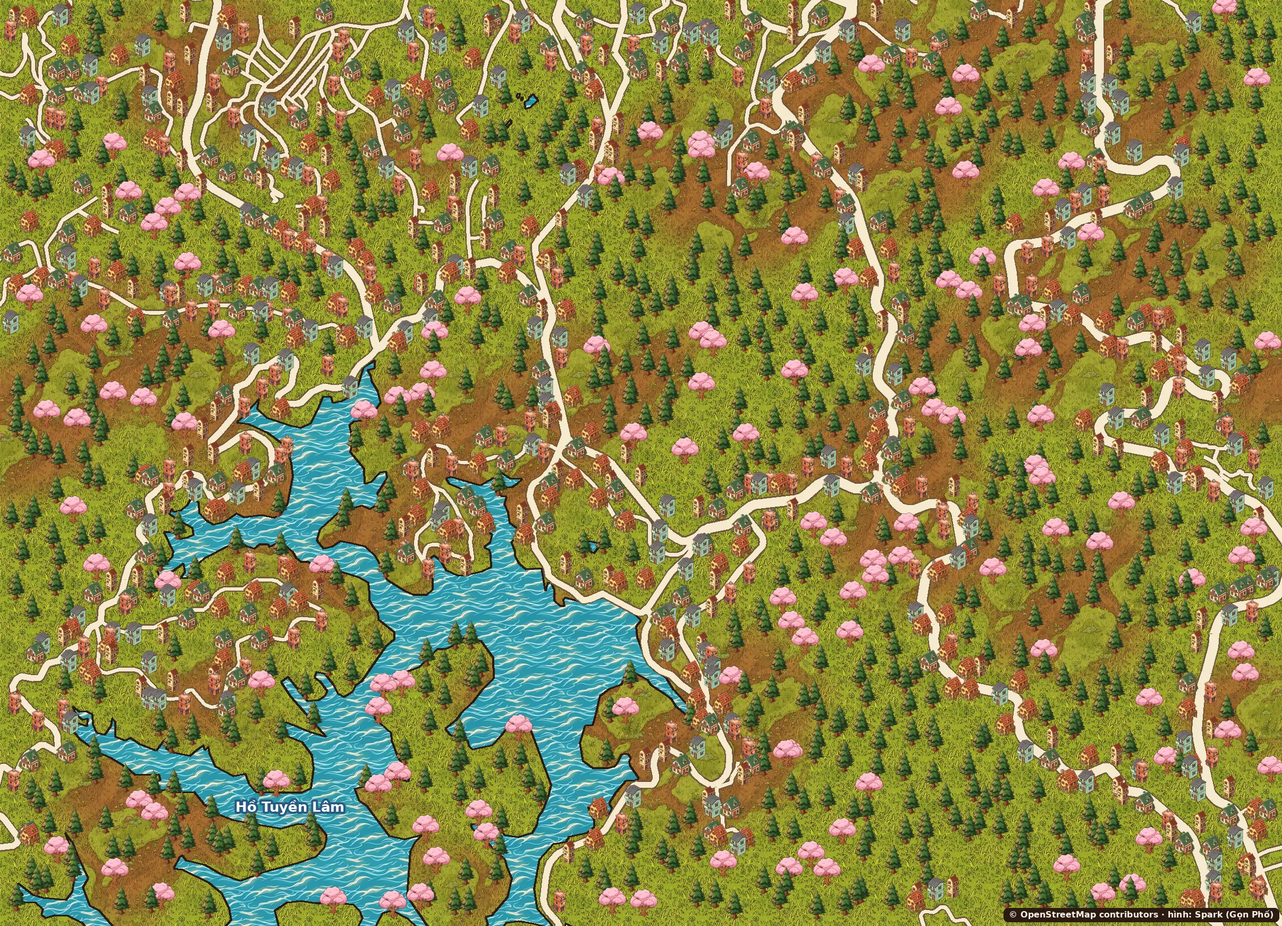
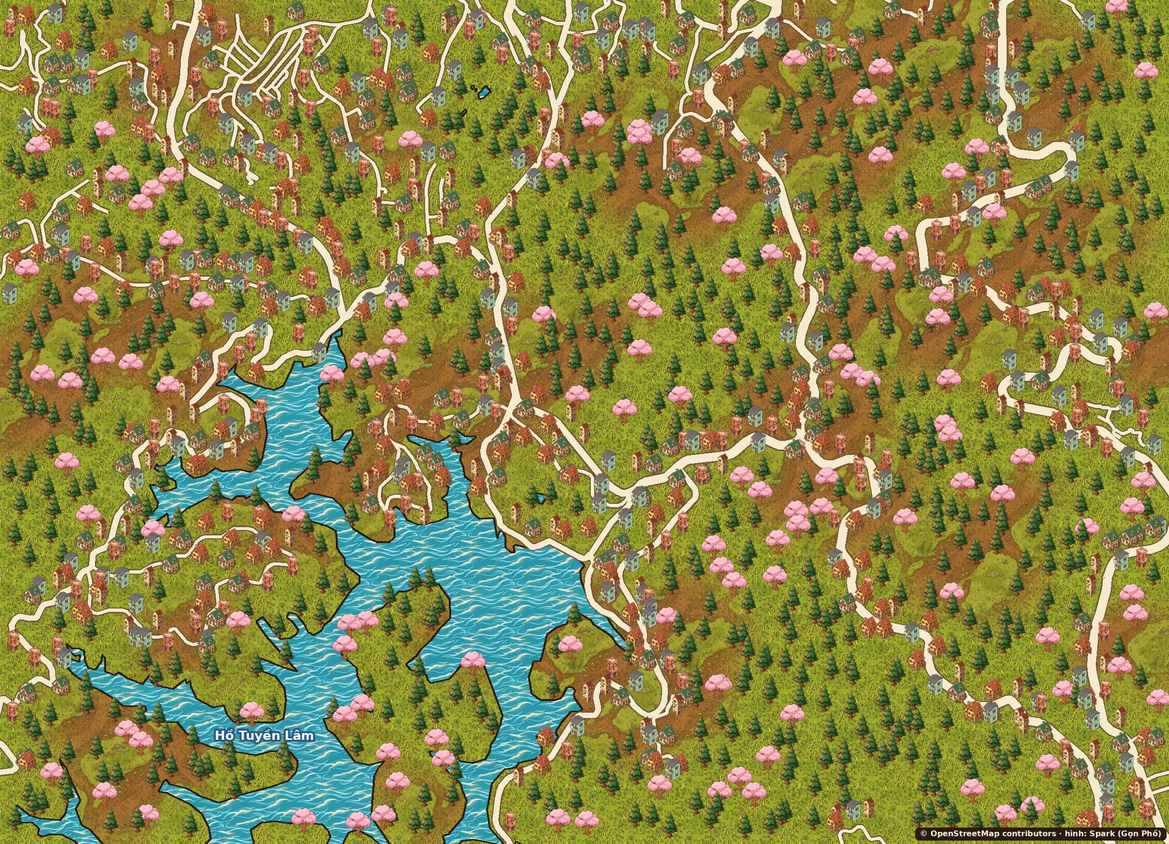
Bước 5: dòng © OpenStreetMap luôn hiện trên bản đồ, thu nhỏ ảnh bản đồ vùng ven (Lang Biang 3,7 MB → 1,1 MB), agent không lấy dữ liệu Google Maps
Claude-Session: https://claude.ai/code/session_01X21C3vW6w9QSrPJtoigw6e

Changed region(s): [[0.1545, 0.9874, 0.1855, 1.0]]

diff --git a/style.css b/style.css
@@ -218,3 +218,8 @@ details.all summary { cursor: pointer; font-weight: 700; padding: 6px 0; }
 .phan .facts { margin-top: 10px; }
 .chuyen .src.warn, .ten-cu .src.warn, .quan-card .src.warn { color: #9a6a12; display: block; }
 .ten-cu .src.warn { display: inline; font-size: .78rem; }
+
+/* Ghi công OpenStreetMap luôn thấy trên bản đồ (điều kiện giấy phép ODbL) */
+.osm-credit { position: fixed; right: max(12px, env(safe-area-inset-right, 0px)); bottom: calc(env(safe-area-inset-bottom, 0px) + 50px);
+  margin: 0; padding: 2px 6px; font-size: .68rem; color: var(--muted); background: color-mix(in srgb, var(--card) 85%, transparent); border-radius: 6px; }
+.osm-credit a { color: inherit; }

diff --git a/index.html b/index.html
@@ -29,6 +29,7 @@
   </div>
   <button class="lich-btn" id="lichBtn" type="button" hidden>Đi 1 ngày theo phố</button>
   <button class="src-btn" id="srcBtn" type="button">Nguồn dữ liệu</button>
+  <p class="osm-credit">© <a href="https://www.openstreetmap.org/copyright" target="_blank" rel="noopener">OpenStreetMap</a></p>
   <p class="loading" id="loading">Đang tải bản đồ…</p>
 </main>
 

diff --git a/tools/ve_ban_do_dalat.py b/tools/ve_ban_do_dalat.py
@@ -205,9 +205,17 @@ def draw_area(game, duong, phos, key, with_center):
     d.text((W - tw - 16, H - 31), txt, fill=(250, 244, 226), font=small)
 
     out = os.path.join(ROOT, 'assets', key + '.webp')
-    im.convert('RGB').save(out, 'WEBP', quality=72, method=6)
+    # tấm vùng ven rộng (Lang Biang ~10 km) cả khung hiện một lần trên điện thoại ~1.100 điểm ảnh → thu về tối đa 2.200,
+    # tấm trung tâm giữ nguyên độ nét (mỗi phố chỉ hiện một góc nhỏ) nhưng nén mạnh hơn
+    f = 1.0 if with_center else min(1.0, 2200 / max(W, H))
+    ppm = PX_PER_M
+    if f < 1:
+        W, H = int(W * f), int(H * f)
+        im = im.resize((W, H), Image.LANCZOS)
+        ppm = PX_PER_M * f
+    im.convert('RGB').save(out, 'WEBP', quality=64 if with_center else 70, method=6)
     print(out, W, 'x', H, os.path.getsize(out) // 1024, 'KB', [p['slug'] for p in phos])
-    return {'anh': 'assets/' + key + '.webp', 'w': W, 'h': H, 'lon0': lon0, 'lat1': lat1, 'kx': kx, 'px_per_m': PX_PER_M, 'M': M,
+    return {'anh': 'assets/' + key + '.webp', 'w': W, 'h': H, 'lon0': lon0, 'lat1': lat1, 'kx': kx, 'px_per_m': ppm, 'M': M,
             'pho': [p['slug'] for p in phos],
             'moc': [{'ten': MOC_TEN[n], 'lon': lo, 'lat': la} for n, la, lo, _ in LMS]}
 
